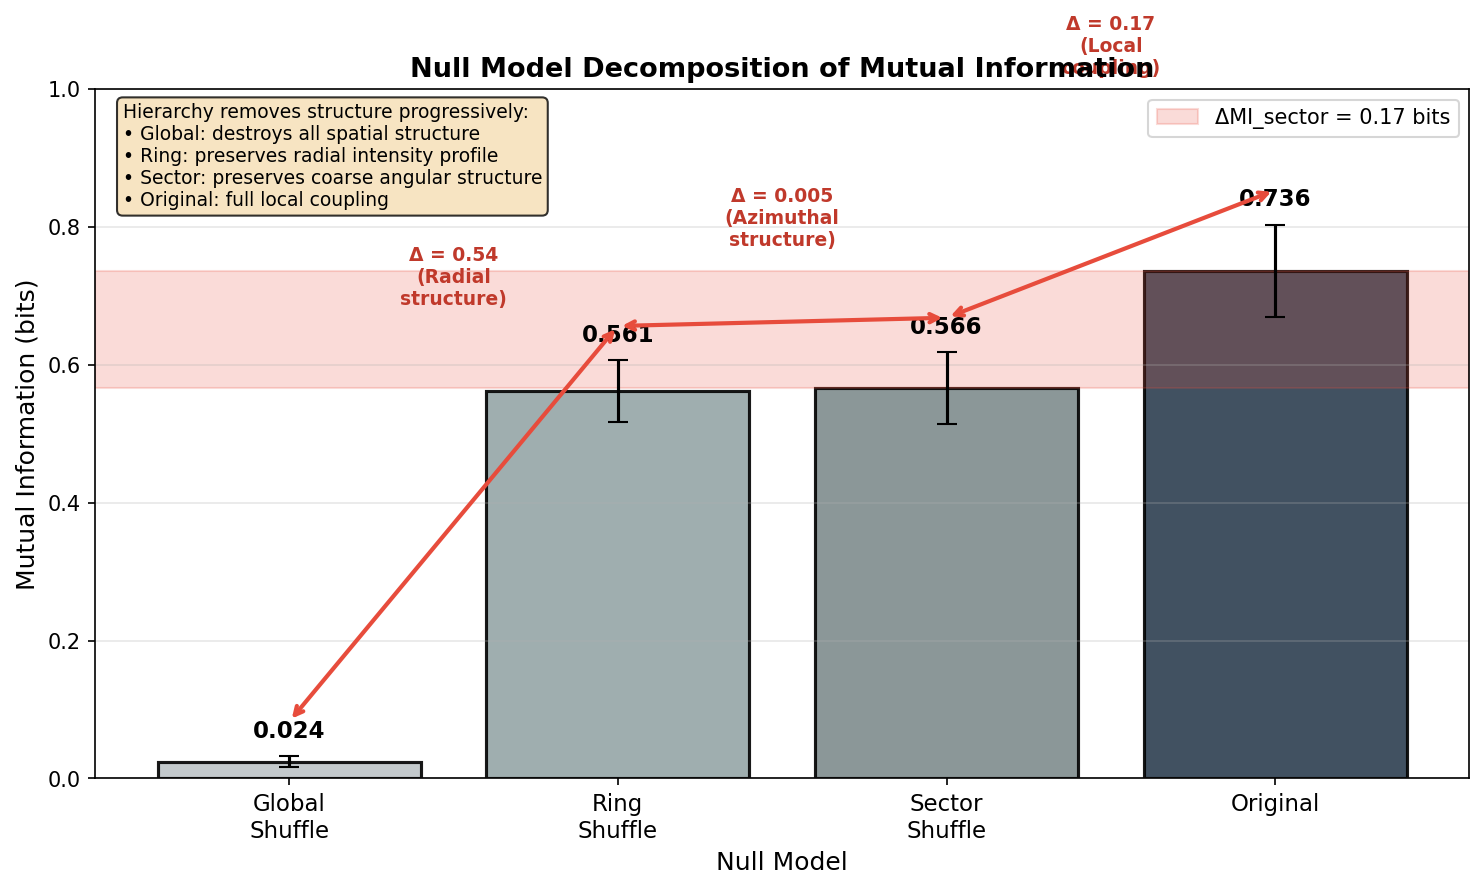
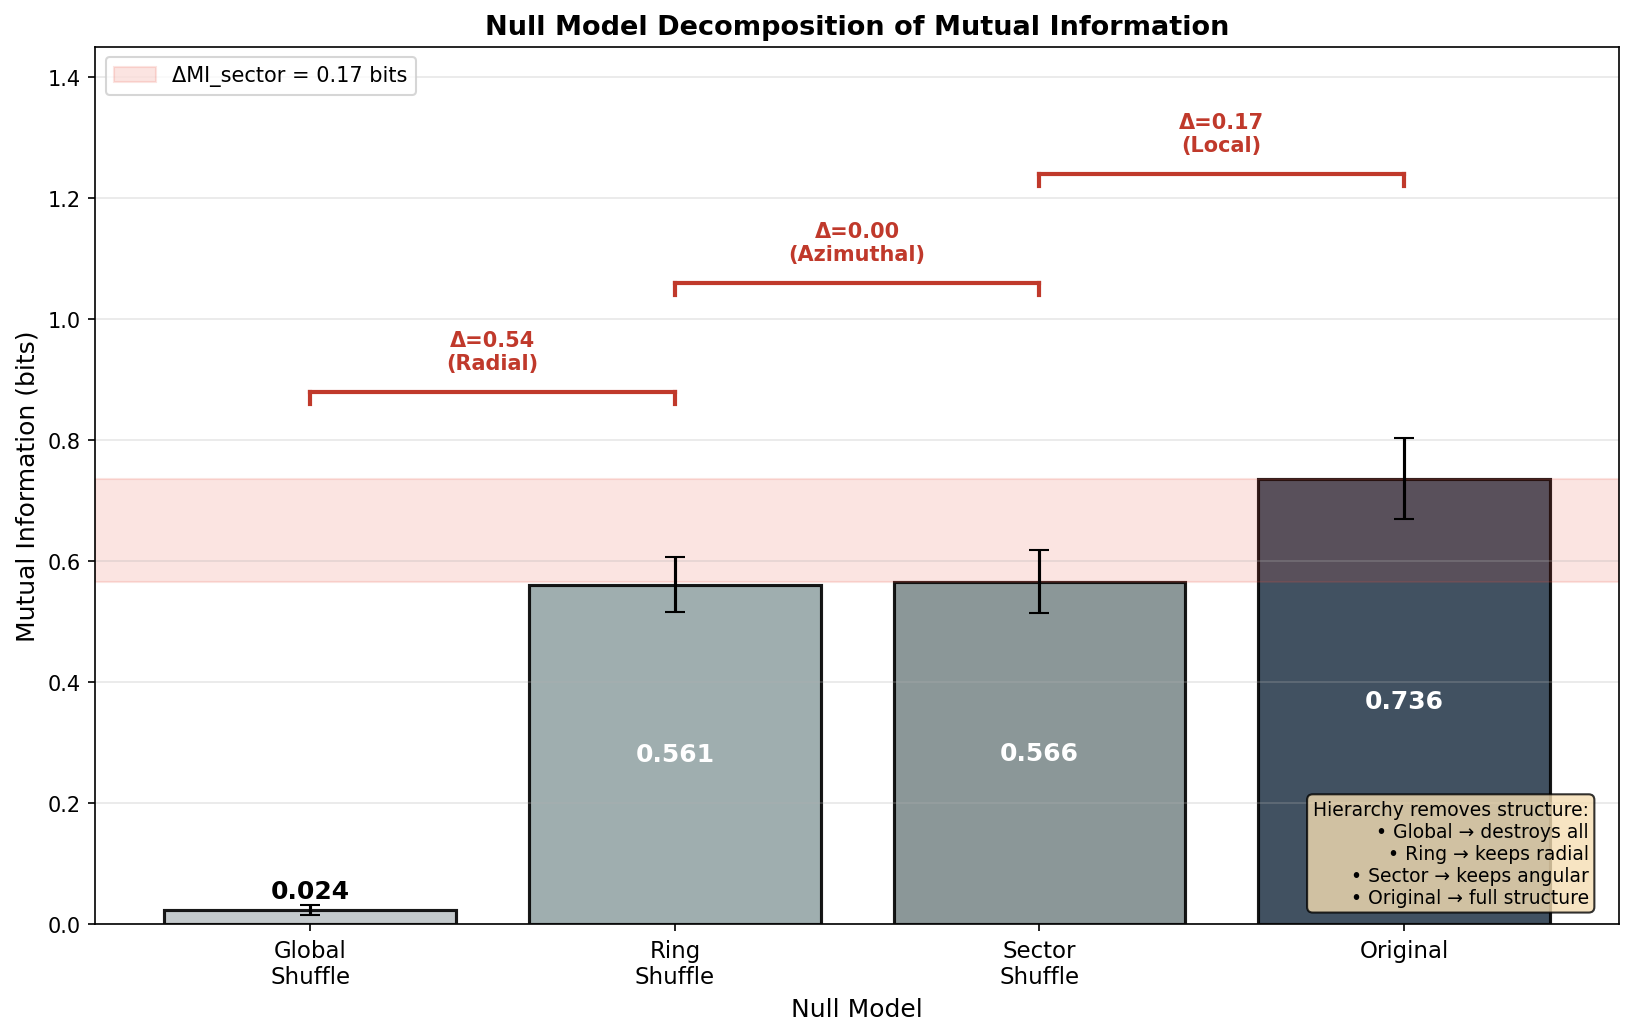
Redesign Figure 3 to avoid text overlap
- Value labels now inside bars (white text)
- Delta annotations as brackets above with clear vertical spacing
- Explanation box moved to bottom-right
- Legend moved to upper-left
- Increased figure height for more space

🤖 Generated with [Claude Code](https://claude.com/claude-code)

diff --git a/src/solar_seed/visualize.py b/src/solar_seed/visualize.py
@@ -89,55 +89,64 @@ def plot_null_model_decomposition(
     # Colors: gradient from light to dark
     colors = ['#bdc3c7', '#95a5a6', '#7f8c8d', '#2c3e50']
 
-    fig, ax = plt.subplots(figsize=(10, 6))
+    fig, ax = plt.subplots(figsize=(11, 7))
 
     x = np.arange(len(labels))
     bars = ax.bar(x, values, yerr=errors, capsize=5, color=colors,
                   edgecolor='black', linewidth=1.5, alpha=0.9)
 
-    # Add value labels on bars
-    for bar, val, err in zip(bars, values, errors):
+    # Add value labels inside bars (white text)
+    for bar, val in zip(bars, values):
         height = bar.get_height()
-        ax.text(bar.get_x() + bar.get_width()/2., height + err + 0.02,
-                f'{val:.3f}', ha='center', va='bottom', fontsize=11, fontweight='bold')
+        y_pos = height / 2 if height > 0.15 else height + 0.03
+        color = 'white' if height > 0.15 else 'black'
+        ax.text(bar.get_x() + bar.get_width()/2., y_pos,
+                f'{val:.3f}', ha='center', va='center', fontsize=12, fontweight='bold', color=color)
 
-    # Add delta annotations
-    deltas = [
-        (0, 1, f'Δ = {values[1] - values[0]:.2f}', 'Radial\nstructure'),
-        (1, 2, f'Δ = {values[2] - values[1]:.3f}', 'Azimuthal\nstructure'),
-        (2, 3, f'Δ = {values[3] - values[2]:.2f}', 'Local\ncoupling'),
+    # Add delta annotations - positioned above with clear spacing
+    delta_info = [
+        (0, 1, values[1] - values[0], 'Radial'),
+        (1, 2, values[2] - values[1], 'Azimuthal'),
+        (2, 3, values[3] - values[2], 'Local'),
     ]
 
-    for i, (start, end, delta_text, component) in enumerate(deltas):
-        y_pos = max(values[start], values[end]) + 0.12 + i * 0.08
-        ax.annotate('', xy=(end, values[end] + errors[end] + 0.05),
-                   xytext=(start, values[start] + errors[start] + 0.05),
-                   arrowprops=dict(arrowstyle='<->', color='#e74c3c', lw=2))
-        ax.text((start + end) / 2, y_pos, f'{delta_text}\n({component})',
-               ha='center', va='bottom', fontsize=9, color='#c0392b', fontweight='bold')
+    # Draw connecting brackets above bars
+    bracket_y = 0.88
+    for start, end, delta, label in delta_info:
+        mid_x = (start + end) / 2
+        # Horizontal line
+        ax.plot([start, end], [bracket_y, bracket_y], color='#c0392b', lw=2)
+        # Vertical ticks
+        ax.plot([start, start], [bracket_y - 0.02, bracket_y], color='#c0392b', lw=2)
+        ax.plot([end, end], [bracket_y - 0.02, bracket_y], color='#c0392b', lw=2)
+        # Delta label above
+        ax.text(mid_x, bracket_y + 0.03, f'Δ={delta:.2f}\n({label})',
+               ha='center', va='bottom', fontsize=10, color='#c0392b', fontweight='bold')
+        bracket_y += 0.18  # Increase for next bracket
 
     ax.set_ylabel('Mutual Information (bits)', fontsize=12)
     ax.set_xlabel('Null Model', fontsize=12)
     ax.set_xticks(x)
     ax.set_xticklabels(labels, fontsize=11)
-    ax.set_ylim(0, 1.0)
+    ax.set_ylim(0, 1.45)
     ax.grid(True, alpha=0.3, axis='y')
 
-    # Add explanation box
+    # Add explanation box - bottom right to avoid overlap
     explanation = (
-        "Hierarchy removes structure progressively:\n"
-        "• Global: destroys all spatial structure\n"
-        "• Ring: preserves radial intensity profile\n"
-        "• Sector: preserves coarse angular structure\n"
-        "• Original: full local coupling"
+        "Hierarchy removes structure:\n"
+        "• Global → destroys all\n"
+        "• Ring → keeps radial\n"
+        "• Sector → keeps angular\n"
+        "• Original → full structure"
     )
-    ax.text(0.02, 0.98, explanation, transform=ax.transAxes, fontsize=9,
-            verticalalignment='top', bbox=dict(boxstyle='round', facecolor='wheat', alpha=0.8))
+    ax.text(0.98, 0.02, explanation, transform=ax.transAxes, fontsize=9,
+            verticalalignment='bottom', horizontalalignment='right',
+            bbox=dict(boxstyle='round', facecolor='wheat', alpha=0.8))
 
-    # Highlight ΔMI_sector
-    ax.axhspan(values[2], values[3], alpha=0.2, color='#e74c3c',
+    # Highlight ΔMI_sector band
+    ax.axhspan(values[2], values[3], alpha=0.15, color='#e74c3c',
                label=f'ΔMI_sector = {values[3] - values[2]:.2f} bits')
-    ax.legend(loc='upper right', fontsize=10)
+    ax.legend(loc='upper left', fontsize=10)
 
     ax.set_title('Null Model Decomposition of Mutual Information',
                 fontsize=13, fontweight='bold')
